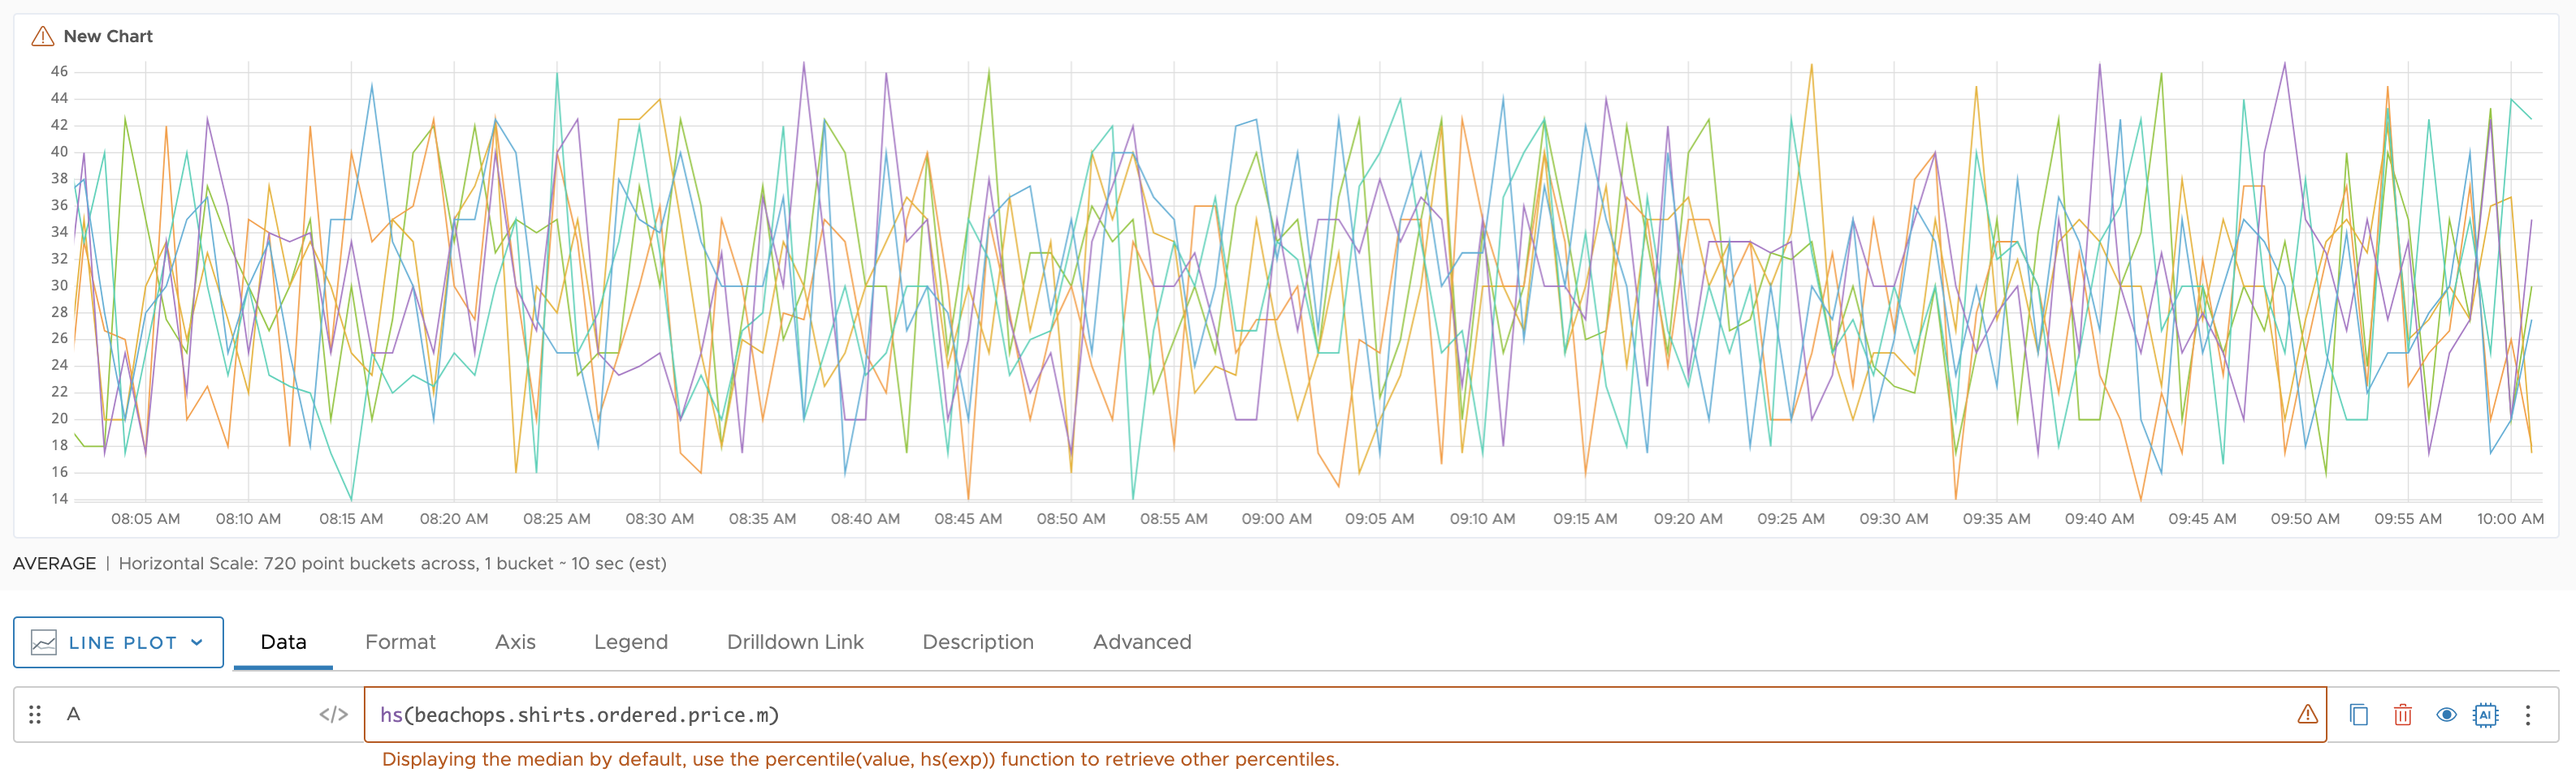
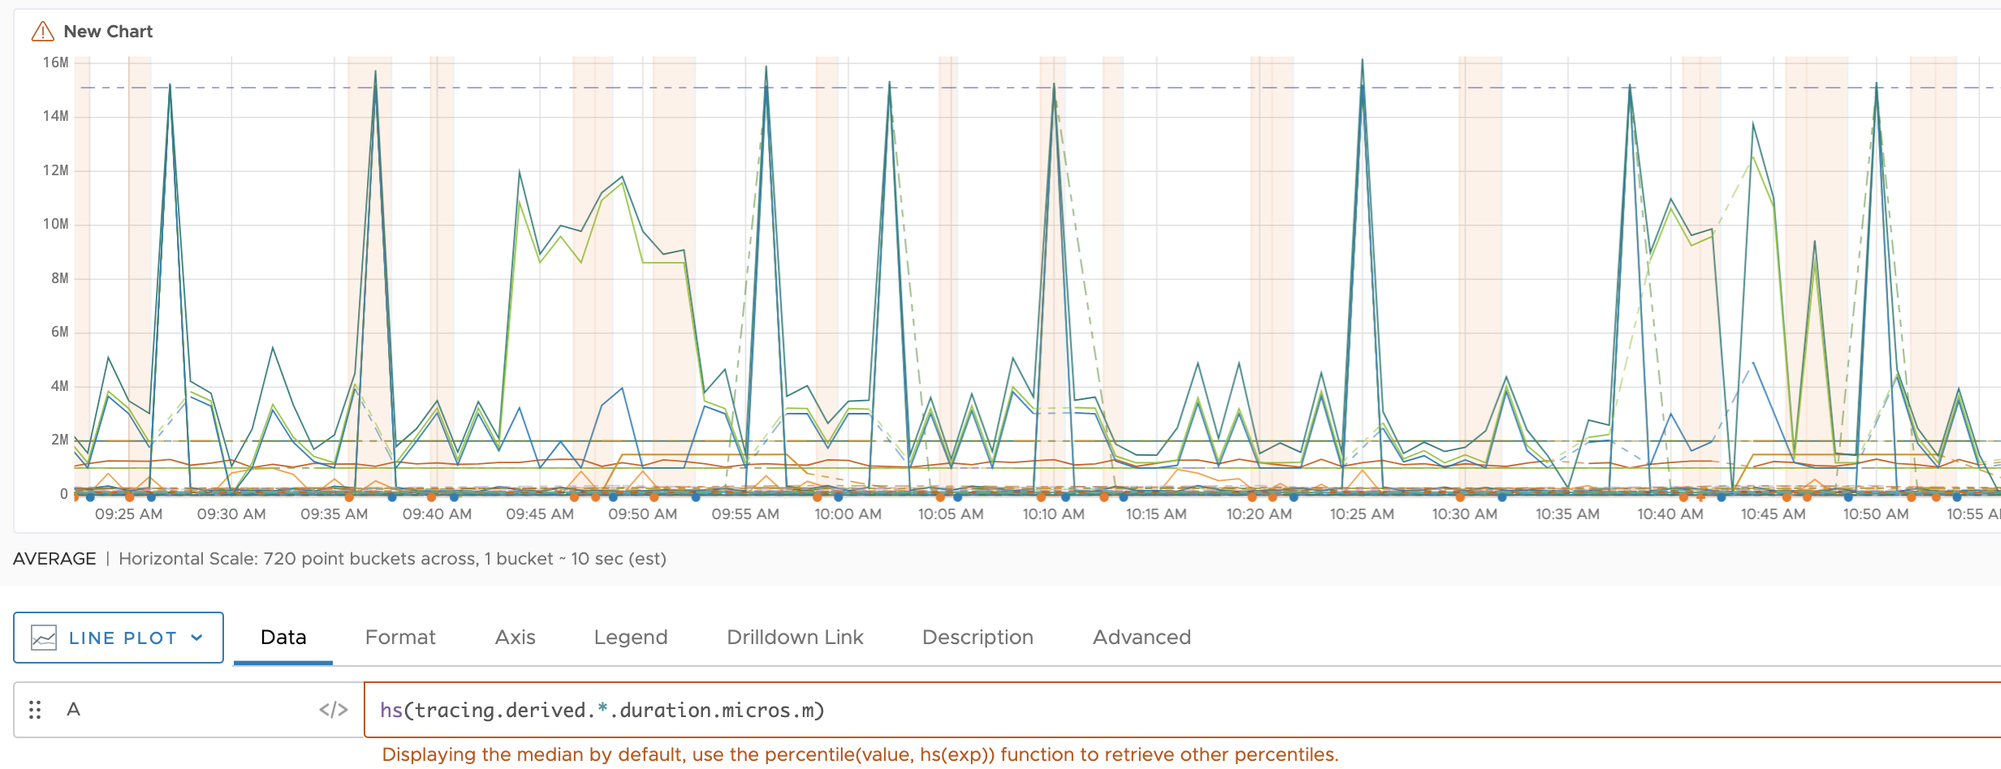
update images

diff --git a/pages/doc/hs_stddev.md b/pages/doc/hs_stddev.md
@@ -31,13 +31,11 @@ Standard deviation tells you how the data in the histogram expression is distrib
 
 ## Description
 
-The `stddev()` functions shows you how the data in your a histogram expression varies agains the mean or average. You can use find out the anomalies in your histogram expression using this function.
+The `stddev()` functions shows you how the data in a histogram expression varies agains the mean or average and returns those values as time series. A separate time series is returned for each histogram series. You can use find out the anomalies in your histogram expression using this function.
 
 ## Example
 
-This chart represents all of the histogram series described by the expression `hs(beachops.shirts.ordered.price.m)`. Each histogram series consists of distributions from a particular source, and a given source might emit more than one histogram series. The chart represents each histogram series as a separate line that consists of the median values of the distributions.
-
-We will merge these series in different ways in the following examples. 
+This chart represents all of the histogram series described by the expression `hs(tracing.derived.*.duration.micros.m))`. Each histogram series consists of distributions from a particular source, and a given source might emit more than one histogram series. The chart represents each histogram series as a separate line that consists of the median values of the distributions.
 
 ![hs_stddedv_before](images/hs_stddedv_before.png)
 
@@ -46,10 +44,10 @@ We will merge these series in different ways in the following examples.
 Here we include all of the histogram series in the results:
  
 ```
-stddev(hs(beachops.shirts.ordered.price.m))
+stddev(hs(tracing.derived.*.duration.micros.m)))
 ```
 
-Now you see how the data in your expression varies against the mean.
+Now you see how the data in your expression varies against the mean. You see an anomaly (a spike) between 9.55 AM and 10 AM.
 
 ![hs_stddev](images/hs_stddev.png)
 
